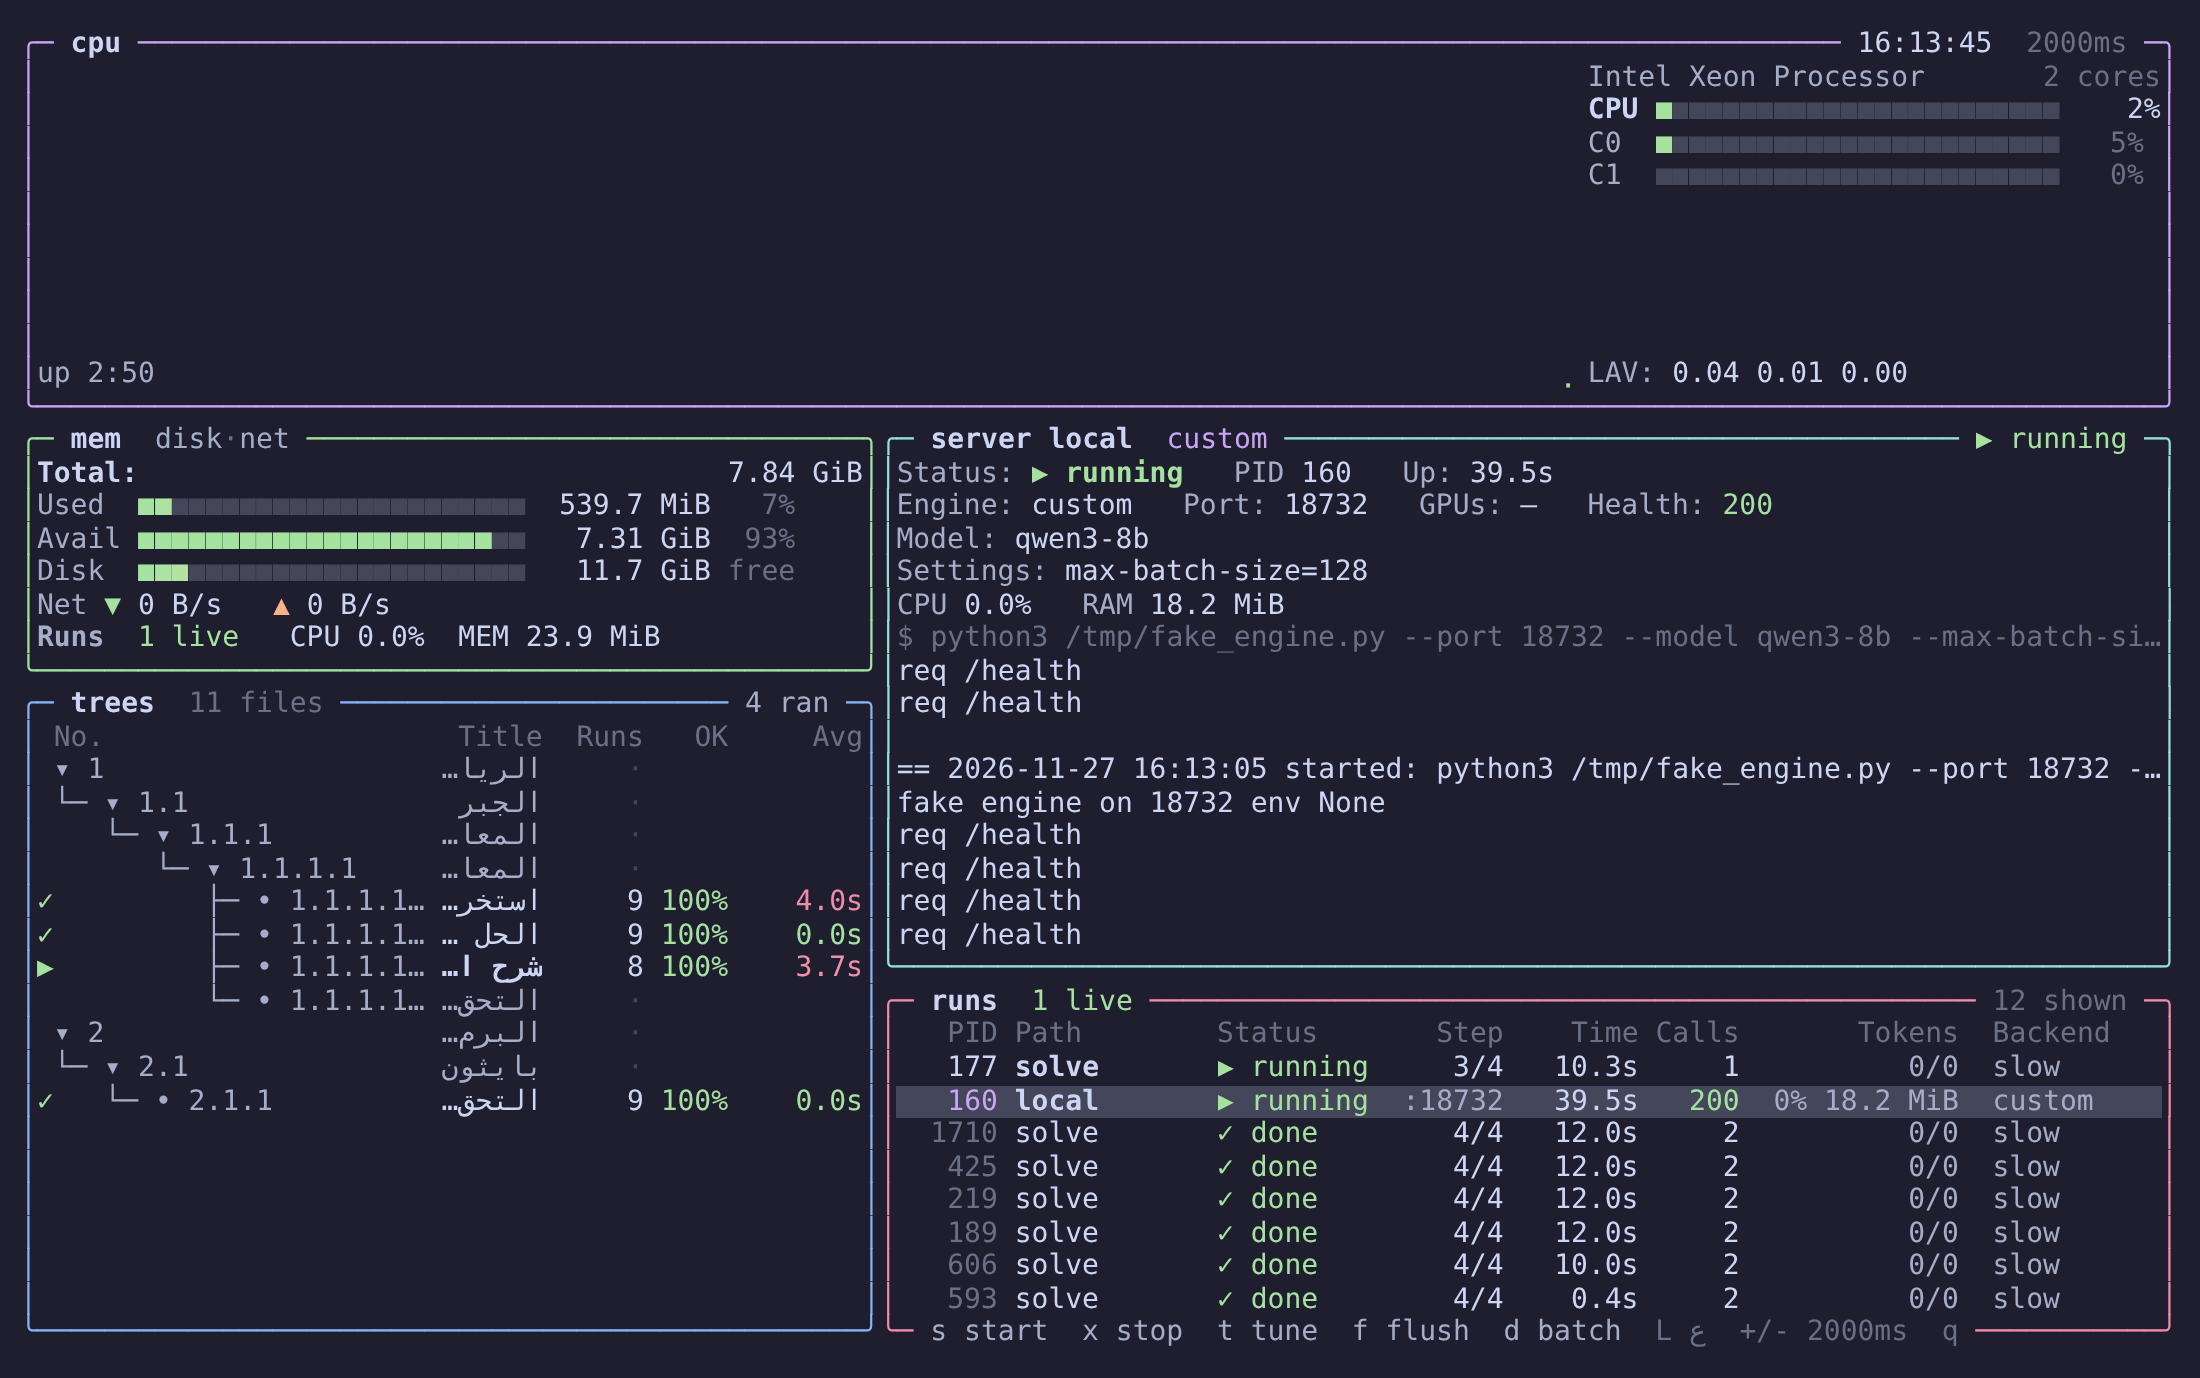
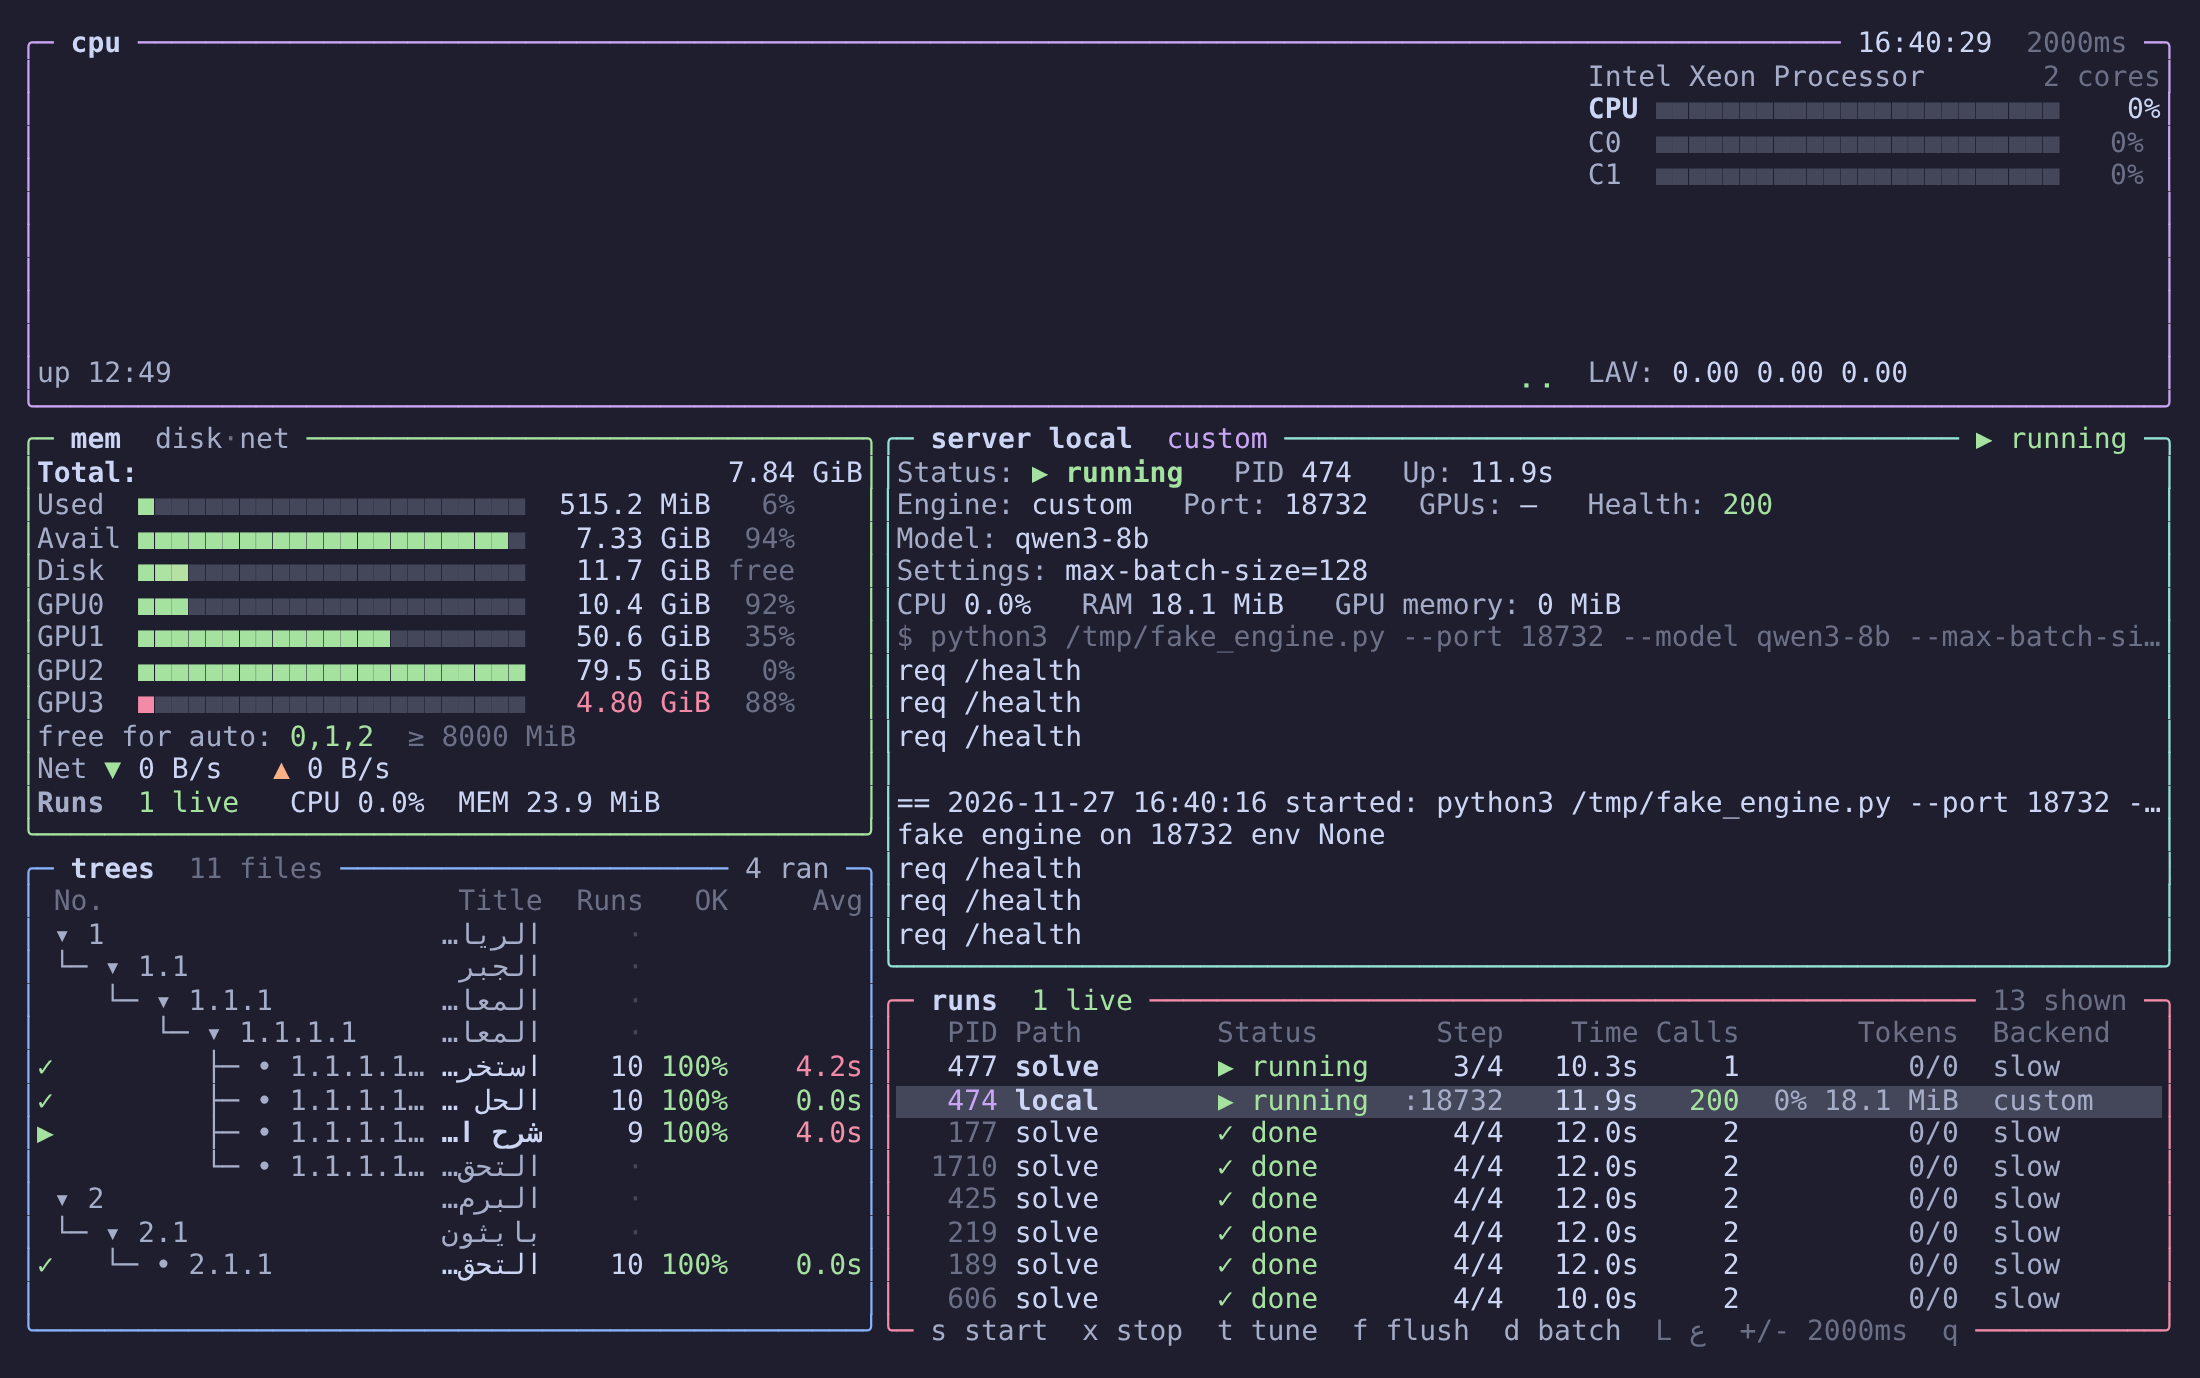
Pictures: tawjih top with four GPUs (from a stand-in nvidia-smi)
Claude-Session: https://claude.ai/code/session_01GU5AfFFLJzEcjQ6jTvENeJ

diff --git a/README.ar.md b/README.ar.md
@@ -510,8 +510,9 @@ python tawjih.py generate review --accept
 
 ![tawjih top والخادم مختار: صحته وإعداداته ومعالجه وذاكرته وآخر سجله](docs/images/top-server.png)
 
-الخادم في هاتين الصورتين بديل يحاكي محركاً، وهذا الجهاز بلا بطاقة رسوميات،
-فلا تظهر أشرطة البطاقات.
+الخادم في هاتين الصورتين بديل يحاكي محركاً، والبطاقات الأربع من بديل لـ
+`nvidia-smi`، فهذا الجهاز بلا بطاقات. البطاقة 3 حمراء لأن ذاكرتها الحرة أقل من
+`--min-free`، فيختار `--gpus auto` البطاقات 0 و1 و2.
 
 ### اللوحة في نافذة: `tawjih dashboard`
 

diff --git a/README.md b/README.md
@@ -557,8 +557,10 @@ right to left is the terminal's own choice.
 
 ![tawjih top with a model server chosen: its health, settings, CPU and RAM, and the end of its log](docs/images/top-server.png)
 
-The server in these pictures is a stand-in, and this computer has no GPU,
-so no GPU bars show.
+The server in these pictures is a stand-in, and the four GPUs come from a
+stand-in for `nvidia-smi`: this computer has none. GPU 3 is red because
+its free memory is below `--min-free`, so `--gpus auto` would take 0, 1
+and 2.
 
 ### The board in a window: `tawjih dashboard`
 
